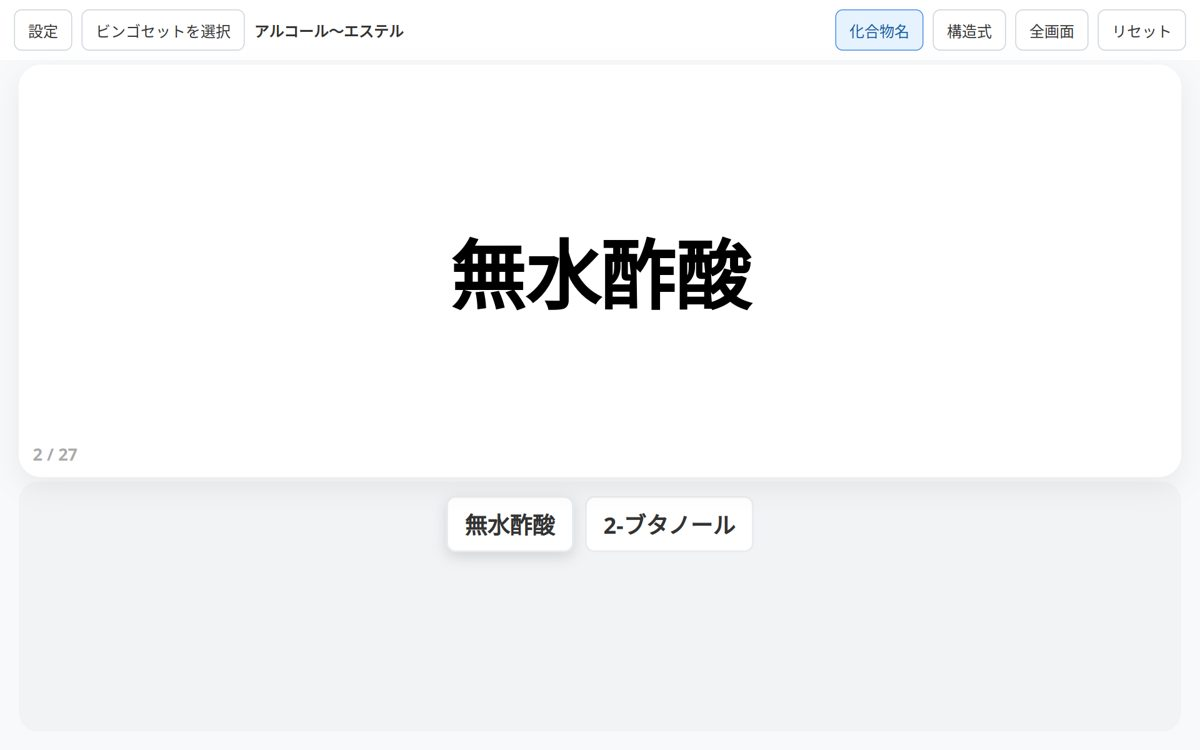
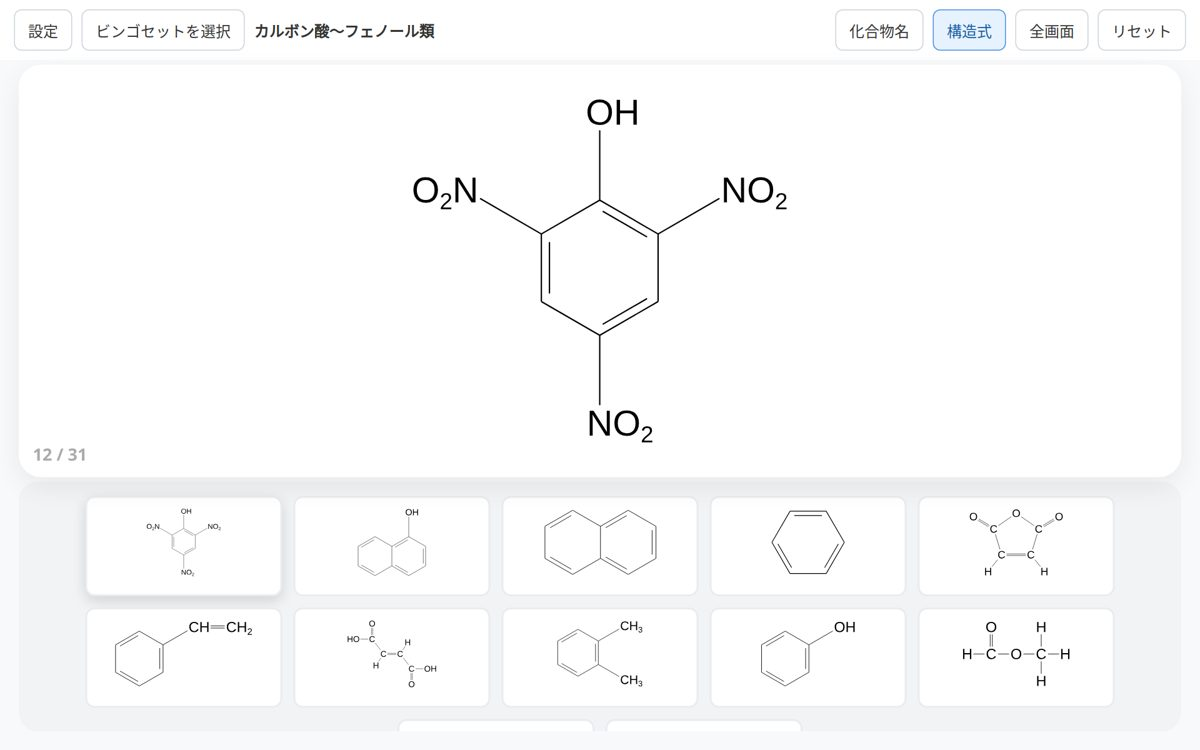
OrgoBingo: title to オルゴビンゴ, slot6 = picric acid structure, note in-development in description

diff --git a/index.html b/index.html
@@ -192,8 +192,8 @@
         ],
       },
       orgobingo: {
-        name: '有機化合物ビンゴ（オルゴビンゴ）',
-        desc: '高校化学の有機化合物を使ったビンゴ。化合物名と構造式の表示を切り替えられ、授業でそのまま読み上げ抽選に使えます。ビンゴセットの選択にも対応。',
+        name: 'オルゴビンゴ',
+        desc: '高校化学の有機化合物を使ったビンゴ。化合物名と構造式の表示を切り替えられ、授業でそのまま読み上げ抽選に使えます。ビンゴセットの選択にも対応。現在開発中のため、機能や内容は今後変わることがあります。',
         tags: ['有機化学', 'ビンゴ', '授業'],
         app: 'https://koichem.github.io/OrgoBingo/',
         gh: 'https://github.com/KoiChem/OrgoBingo',
@@ -203,7 +203,7 @@
           ['assets/orgobingo-3.jpg', '有機化合物ビンゴの抽選画面（構造式）'],
           ['assets/orgobingo-4.jpg', 'オルゴビンゴの設定（化合物リストの編集）'],
           ['assets/orgobingo-5.jpg', 'ビンゴセットの選択'],
-          ['assets/orgobingo-6.jpg', '抽選を進めたところ'],
+          ['assets/orgobingo-6.jpg', 'ピクリン酸の構造式を表示したところ'],
         ],
       },
       elementbingo: {
